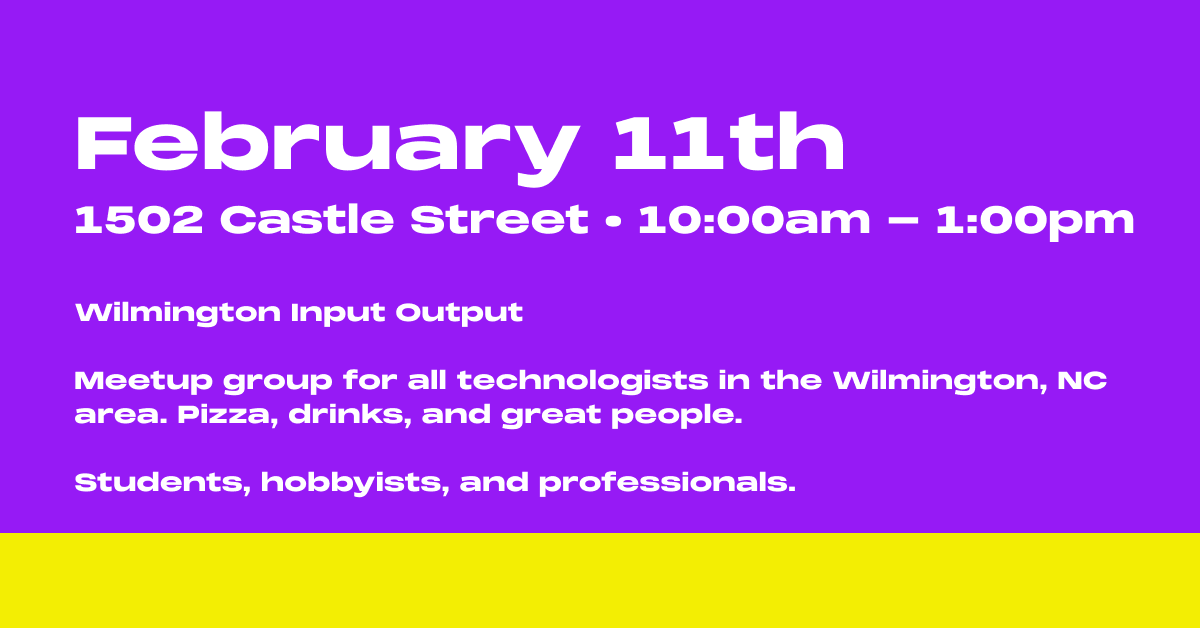
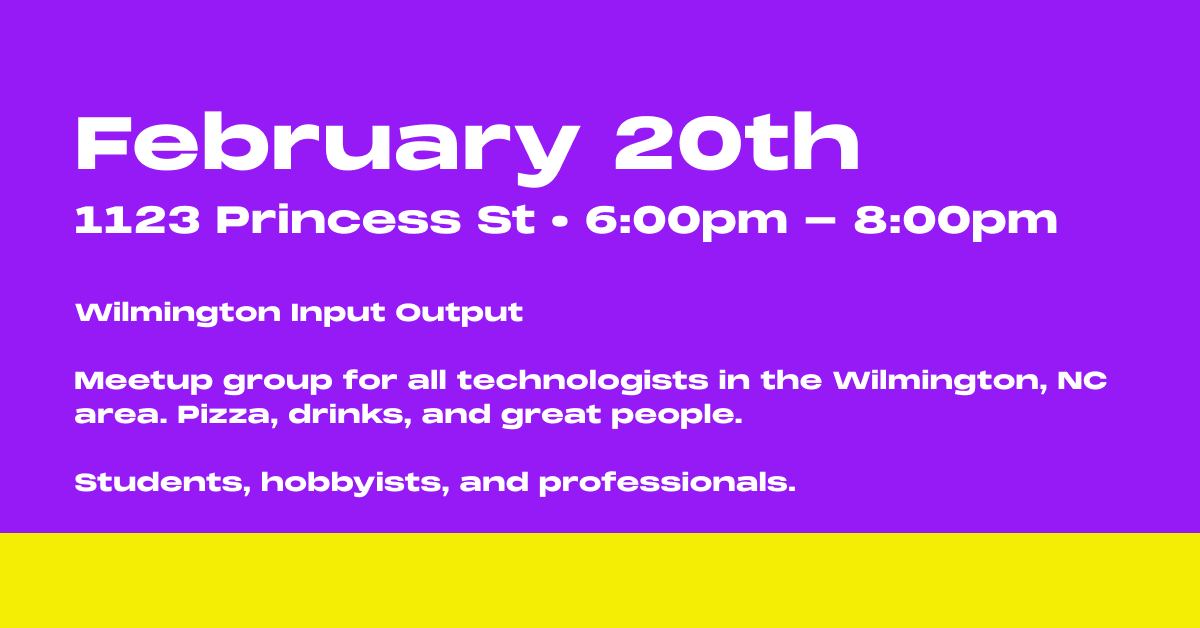
Added feb20 event

Changed region(s): [[0.0925, 0.3025, 0.9558, 0.3933], [0.4933, 0.1513, 0.74, 0.2723]]

diff --git a/src/index.html b/src/index.html
@@ -40,7 +40,7 @@
             >
         </header>
         <h1>Wilmington<br />Input Output</h1>
-        <a href="https://www.eventbrite.com/e/coffee-and-chill-tickets-1229497212259?aff=oddtdtcreator" class="cta" title="Attend!">
+        <a href="https://www.eventbrite.com/e/retro-gaming-social-hangout-tickets-1250890108989?aff=oddtdtcreator" class="cta" title="Attend!">
             <span>Attend</span>
             <span><svg xmlns="http://www.w3.org/2000/svg" width="32" height="32" fill="#000000" viewBox="0 0 256 256"><path d="M128,24A104,104,0,1,0,232,128,104.11,104.11,0,0,0,128,24Zm0,192a88,88,0,1,1,88-88A88.1,88.1,0,0,1,128,216Zm45.66-93.66a8,8,0,0,1,0,11.32l-32,32a8,8,0,0,1-11.32-11.32L148.69,136H88a8,8,0,0,1,0-16h60.69l-18.35-18.34a8,8,0,0,1,11.32-11.32Z"></path></svg></span>
         </a>
@@ -70,25 +70,25 @@
         <div class="cards">
             <div>
                 <h3>Past Events</h3>
-                <span>90+</span>
+                <span>91+</span>
             </div>
             <div>
                 <h3>Unique Attendees</h3>
-                <span>43+</span>
+                <span>46+</span>
             </div>
             <div>
                 <h3>when</h3>
-                <span>Feb 11th</span>
-                <sub>10:00 AM - 1:00 PM</sub>
+                <span>Feb 20th</span>
+                <sub>6pm - 8pm</sub>
             </div>
             <div>
                 <h3>where</h3>
                 <a
                     target="_blank"
                     rel="noopener noreferrer"
-                    href="https://maps.app.goo.gl/9QdpNgpJ6Hg3Xh7E7"
-                >Azalea Stn</a>
-                <sub>1502 Castle Street</sub>
+                    href="https://maps.app.goo.gl/y2xGUQg6y5WHCjaF9"
+                >RetroScape</a>
+                <sub>1123 Princess St</sub>
             </div>
         </div>
     </main>
